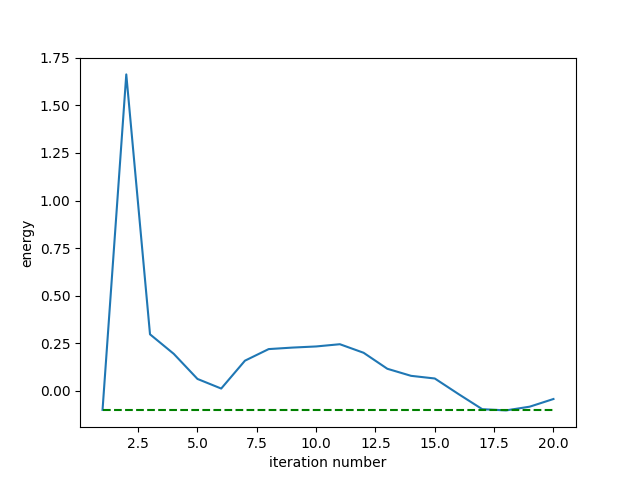
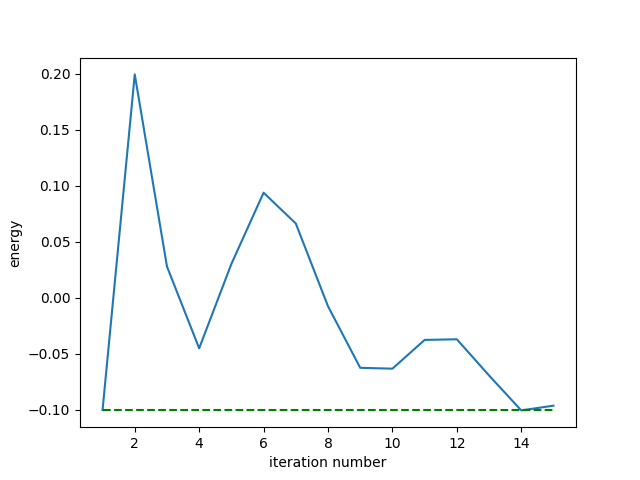
looked into QNG got error, added Ada, MO and NMO

diff --git a/GD_vs_SPSA_QMLCir.py b/GD_vs_SPSA_QMLCir.py
@@ -6,17 +6,27 @@ import time
 
 from pennyl3 import sim_run
 
-def GD(steps, init_params, stepsize):
-    opt = qml.GradientDescentOptimizer(stepsize=stepsize)    
+def GD(steps, init_params, step_size, type):
+    if(type == "GD"): 
+        opt = qml.GradientDescentOptimizer(stepsize=step_size)   
+    elif(type == "Adam"):
+        opt = qml.AdamOptimizer(stepsize=step_size)  
+    elif(type == "Ada"):
+        opt = qml.AdagradOptimizer(stepsize=step_size)  
+    elif(type == "MO"):
+        opt = qml.MomentumOptimizer(stepsize=step_size)  
+    elif(type == "NMO"):
+        opt = qml.NesterovMomentumOptimizer(stepsize=step_size)      
+
     cost = sim_run
 
     params = init_params
 
     F = []
     for k in range(steps):
+        print("Step: " + str(k))
         params, energy = opt.step_and_cost(cost, params)
         F.append(energy)
-        print("energy at step " + str(k) +": " + str(energy)) 
 
     return F   
 
@@ -42,19 +52,18 @@ def SPSA(steps, init_params, c, a):
 
     return F
 
-def Adam(steps, init_params, stepsize):
-    opt = qml.AdamOptimizer(stepsize=stepsize)    
+def QNG(steps, init_params, step_size):
+    opt = qml.QNGOptimizer(stepsize=step_size)    
     cost = sim_run
 
     params = init_params
 
     F = []
     for k in range(steps):
-        params, energy = opt.step_and_cost(cost, params)
+        params, energy = opt.step(cost, params)
         F.append(energy)
-        print("energy at step " + str(k) +": " + str(energy)) 
 
-    return F    
+    return F      
 
 def plot_result(F, opt_name, exact_E=-0.1):
     Nitr=len(F)
@@ -80,6 +89,10 @@ if __name__ == '__main__':
         print("     1. Basic gradient-descent optimizer (GD)")
         print("     2. Simultaneous Perturbation Stochastic Approximation (SPSA)")
         print("     3. Gradient-descent optimizer with adaptive learning rate, first and second moment (Adam)")
+        print("     4. Gradient-descent optimizer with past-gradient-dependent learning rate in each dimension. (Ada)")
+        print("     5. Gradient-descent optimizer with momentum. (MO)")
+        print("     6. Gradient-descent optimizer with Nesterov momentum. (NOM)")
+        print("     7. Optimizer with adaptive learning rate, via calculation of the diagonal or block-diagonal approximation to the Fubini-Study metric tensor. (QNG)")
         print("Input menu ID(s) of optimizers to run (examples: 1,3 or 2): ", end='')
         menu_input = input()   
         menu_input = list(menu_input.split(","))
@@ -104,12 +117,12 @@ if __name__ == '__main__':
                 
                 time_start = time.time()
                 print("Running GD-----------------------------------------------------------------------------------------------")
-                result = GD(niter, init_params, step_size)
+                result = GD(niter, init_params, step_size, "GD")
                 time_stop = time.time()
                 print("GD plot saved to results directory")
                 print("GD time elapsed: " + str(time_stop - time_start))
                 print()
-                fig = plot_result(result, "GD")
+                plot_result(result, "GD")
 
             elif(i == '2'):
                 valid_input = True
@@ -139,7 +152,7 @@ if __name__ == '__main__':
                 print("SPSA plot saved to results directory")
                 print("SPSA time elapsed: " + str(time_stop - time_start))
                 print()
-                fig = plot_result(result, "SPSA")
+                plot_result(result, "SPSA")
 
             elif(i == '3'):
                 valid_input = True
@@ -160,15 +173,116 @@ if __name__ == '__main__':
 
                 time_start = time.time()
                 print("Running Adam---------------------------------------------------------------------------------------------")
-                result = Adam(niter, init_params, step_size)
+                result = GD(niter, init_params, step_size, "Adam")
                 time_stop = time.time()
                 print("Adam plot saved to results directory")
                 print("Adam time elapsed: " + str(time_stop - time_start))
                 print()
-                fig = plot_result(result, "Adam")
+                plot_result(result, "Adam")
 
+            elif(i == '4'):
+                valid_input = True
+                print("Ada hyperparameters (input d to use defaults OR any key to continue modifying): ", end='')
+                param_spec = input()
+                if(param_spec != "d"):
+                    print("Number of iterations (example: 300): ", end='')
+                    niter = int(input())
+                    print("Initial parameters (example: 1.57079633,1.57079633,1.57079633,1.57079633,1.57079633,1.57079633): ", end='')
+                    init_params = input()
+                    init_params = [float(item) for item in init_params.split(',')]
+                    print("Stepsize(example 0.2): ", end='')
+                    step_size = float(input())
+                else: 
+                    niter = 100
+                    init_params = np.pi/2*np.ones(6)
+                    step_size = 0.3  
 
+                time_start = time.time()
+                print("Running Ada---------------------------------------------------------------------------------------------")
+                result = GD(niter, init_params, step_size, "Ada")
+                time_stop = time.time()
+                print("Ada plot saved to results directory")
+                print("Ada time elapsed: " + str(time_stop - time_start))
+                print()
+                plot_result(result, "Ada")    
 
+            elif(i == '5'):
+                valid_input = True
+                print("MO hyperparameters (input d to use defaults OR any key to continue modifying): ", end='')
+                param_spec = input()
+                if(param_spec != "d"):
+                    print("Number of iterations (example: 300): ", end='')
+                    niter = int(input())
+                    print("Initial parameters (example: 1.57079633,1.57079633,1.57079633,1.57079633,1.57079633,1.57079633): ", end='')
+                    init_params = input()
+                    init_params = [float(item) for item in init_params.split(',')]
+                    print("Stepsize(example 0.2): ", end='')
+                    step_size = float(input())
+                else: 
+                    niter = 100
+                    init_params = np.pi/2*np.ones(6)
+                    step_size = 0.3  
+
+                time_start = time.time()
+                print("Running MO---------------------------------------------------------------------------------------------")
+                result = GD(niter, init_params, step_size, "MO")
+                time_stop = time.time()
+                print("MO plot saved to results directory")
+                print("MO time elapsed: " + str(time_stop - time_start))
+                print()
+                plot_result(result, "MO")     
+
+            elif(i == '6'):
+                valid_input = True
+                print("NMO hyperparameters (input d to use defaults OR any key to continue modifying): ", end='')
+                param_spec = input()
+                if(param_spec != "d"):
+                    print("Number of iterations (example: 300): ", end='')
+                    niter = int(input())
+                    print("Initial parameters (example: 1.57079633,1.57079633,1.57079633,1.57079633,1.57079633,1.57079633): ", end='')
+                    init_params = input()
+                    init_params = [float(item) for item in init_params.split(',')]
+                    print("Stepsize(example 0.2): ", end='')
+                    step_size = float(input())
+                else: 
+                    niter = 100
+                    init_params = np.pi/2*np.ones(6)
+                    step_size = 0.3  
+
+                time_start = time.time()
+                print("Running NMO---------------------------------------------------------------------------------------------")
+                result = GD(niter, init_params, step_size, "NMO")
+                time_stop = time.time()
+                print("NMO plot saved to results directory")
+                print("NMO time elapsed: " + str(time_stop - time_start))
+                print()
+                plot_result(result, "NMO")                                  
+
+            elif(i == '7'):
+                valid_input = True
+                print("QNG hyperparameters (input d to use defaults OR any key to continue modifying): ", end='')
+                param_spec = input()
+                if(param_spec != "d"):
+                    print("Number of iterations (example: 300): ", end='')
+                    niter = int(input())
+                    print("Initial parameters (example: 1.57079633,1.57079633,1.57079633,1.57079633,1.57079633,1.57079633): ", end='')
+                    init_params = input()
+                    init_params = [float(item) for item in init_params.split(',')]
+                    print("Stepsize(example 0.2): ", end='')
+                    step_size = float(input())
+                else: 
+                    niter = 100
+                    init_params = np.pi/2*np.ones(6)
+                    step_size = 0.3  
+
+                time_start = time.time()
+                print("Running QNG---------------------------------------------------------------------------------------------")
+                result = QNG(niter, init_params, step_size)
+                time_stop = time.time()
+                print("QNG plot saved to results directory")
+                print("QNG time elapsed: " + str(time_stop - time_start))
+                print()
+                plot_result(result, "QNG")
     
     
     
